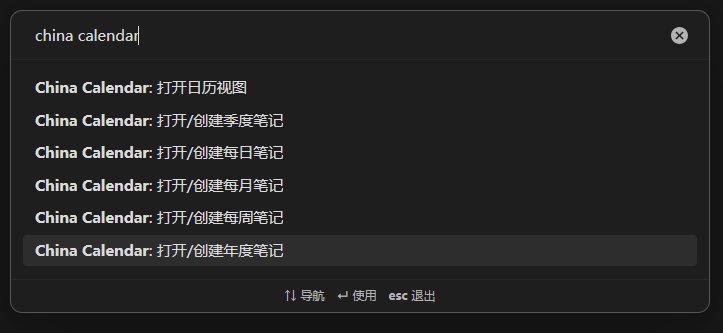
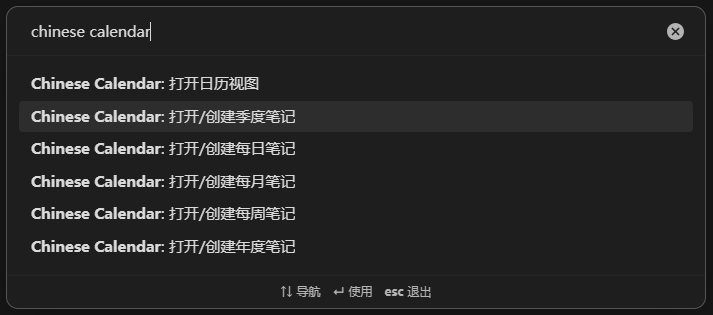
refactor: 将插件重新命名为 “Chinese Calendar”

diff --git a/src/main.ts b/src/main.ts
@@ -12,7 +12,7 @@ import {NoteType} from "./base/enum";
 
 
 // 插件对象
-export default class ChinaCalendarPlugin extends Plugin {
+export default class ChineseCalendarPlugin extends Plugin {
 
     public readonly database: Database;
     public readonly noteController: NoteController;
@@ -47,7 +47,7 @@ export default class ChinaCalendarPlugin extends Plugin {
             id: "active-calendar-view",
             name: "打开日历视图",
             callback: () => {
-                void ChinaCalendarPlugin.activateCalendarView(this);
+                void ChineseCalendarPlugin.activateCalendarView(this);
             }
         });
         this.addCommand({
@@ -97,11 +97,11 @@ export default class ChinaCalendarPlugin extends Plugin {
 
         // 添加左侧边栏图标
         this.addRibbonIcon("calendar-check", "打开日历", () => {
-            void ChinaCalendarPlugin.activateCalendarView(this);
+            void ChineseCalendarPlugin.activateCalendarView(this);
         });
 
         if (this.app.workspace.layoutReady) {
-            await ChinaCalendarPlugin.activateCalendarView(this);
+            await ChineseCalendarPlugin.activateCalendarView(this);
         }
     }
 

diff --git a/src/core/CalendarViewController.ts b/src/core/CalendarViewController.ts
@@ -1,4 +1,4 @@
-import ChinaCalendarPlugin from "../main";
+import ChineseCalendarPlugin from "../main";
 import {CalendarView, VIEW_TYPE_CALENDAR} from "../view/CalendarView";
 
 
@@ -8,11 +8,11 @@ import {CalendarView, VIEW_TYPE_CALENDAR} from "../view/CalendarView";
  */
 export class CalendarViewController {
 
-    public readonly plugin: ChinaCalendarPlugin;
+    public readonly plugin: ChineseCalendarPlugin;
     private requestCounter: number;                             // 请求刷新的次数
     private lastRequestTime: number;                            // 上次请求时间
 
-    constructor(plugin: ChinaCalendarPlugin) {
+    constructor(plugin: ChineseCalendarPlugin) {
         this.plugin = plugin;
         this.requestCounter = 0;
         this.lastRequestTime = 0;

diff --git a/src/core/Database.ts b/src/core/Database.ts
@@ -1,4 +1,4 @@
-import ChinaCalendarPlugin from "../main";
+import ChineseCalendarPlugin from "../main";
 import PluginSetting from "../entity/PluginSetting";
 
 
@@ -7,10 +7,10 @@ import PluginSetting from "../entity/PluginSetting";
  */
 export default class Database {
 
-    public readonly plugin: ChinaCalendarPlugin;
+    public readonly plugin: ChineseCalendarPlugin;
     public setting: PluginSetting;
 
-    constructor(plugin: ChinaCalendarPlugin) {
+    constructor(plugin: ChineseCalendarPlugin) {
         this.plugin = plugin;
         this.setting = new PluginSetting();
     }

diff --git a/src/core/NoteController.ts b/src/core/NoteController.ts
@@ -5,7 +5,7 @@ import SelectedItem from "../entity/SelectedItem";
 import Path from "../util/Path";
 import PathUtil from "../util/PathUtil";
 import ConfirmCreatingNoteModal from "../view/modal/ConfirmCreatingNoteModal";
-import ChinaCalendarPlugin from "../main";
+import ChineseCalendarPlugin from "../main";
 
 
 /**
@@ -13,10 +13,10 @@ import ChinaCalendarPlugin from "../main";
  */
 export default class NoteController {
 
-    public readonly plugin: ChinaCalendarPlugin;
+    public readonly plugin: ChineseCalendarPlugin;
     private noteType: NoteType;
 
-    constructor(plugin: ChinaCalendarPlugin) {
+    constructor(plugin: ChineseCalendarPlugin) {
         this.plugin = plugin;
         this.noteType = NoteType.DAILY;
     }

diff --git a/src/core/NoteStatisticController.ts b/src/core/NoteStatisticController.ts
@@ -1,6 +1,6 @@
 import {TAbstractFile, TFile} from "obsidian";
 import {DateTime} from "luxon";
-import ChinaCalendarPlugin from "../main";
+import ChineseCalendarPlugin from "../main";
 import {NoteType, TodoAnnotationMode} from "../base/enum";
 import NoteStatistic from "../entity/NoteStatistic";
 
@@ -9,10 +9,10 @@ export default class NoteStatisticController {
 
     private static PATTERN_FOR_COUNTING_WORDS = /(?:[0-9]+(?:(?:,|\.)[0-9]+)*|[-'’A-Za-z\u00AA\u00B5\u00BA\u00C0-\u00D6\u00D8-\u00F6\u00F8-\u02C1\u02C6-\u02D1\u02E0-\u02E4\u02EC\u02EE\u0370-\u0374\u0376\u0377\u037A-\u037D\u037F\u0386\u0388-\u038A\u038C\u038E-\u03A1\u03A3-\u03F5\u03F7-\u0481\u048A-\u052F\u0531-\u0556\u0559\u0561-\u0587\u05D0-\u05EA\u05F0-\u05F2\u0620-\u064A\u066E\u066F\u0671-\u06D3\u06D5\u06E5\u06E6\u06EE\u06EF\u06FA-\u06FC\u06FF\u0710\u0712-\u072F\u074D-\u07A5\u07B1\u07CA-\u07EA\u07F4\u07F5\u07FA\u0800-\u0815\u081A\u0824\u0828\u0840-\u0858\u08A0-\u08B4\u0904-\u0939\u093D\u0950\u0958-\u0961\u0971-\u0980\u0985-\u098C\u098F\u0990\u0993-\u09A8\u09AA-\u09B0\u09B2\u09B6-\u09B9\u09BD\u09CE\u09DC\u09DD\u09DF-\u09E1\u09F0\u09F1\u0A05-\u0A0A\u0A0F\u0A10\u0A13-\u0A28\u0A2A-\u0A30\u0A32\u0A33\u0A35\u0A36\u0A38\u0A39\u0A59-\u0A5C\u0A5E\u0A72-\u0A74\u0A85-\u0A8D\u0A8F-\u0A91\u0A93-\u0AA8\u0AAA-\u0AB0\u0AB2\u0AB3\u0AB5-\u0AB9\u0ABD\u0AD0\u0AE0\u0AE1\u0AF9\u0B05-\u0B0C\u0B0F\u0B10\u0B13-\u0B28\u0B2A-\u0B30\u0B32\u0B33\u0B35-\u0B39\u0B3D\u0B5C\u0B5D\u0B5F-\u0B61\u0B71\u0B83\u0B85-\u0B8A\u0B8E-\u0B90\u0B92-\u0B95\u0B99\u0B9A\u0B9C\u0B9E\u0B9F\u0BA3\u0BA4\u0BA8-\u0BAA\u0BAE-\u0BB9\u0BD0\u0C05-\u0C0C\u0C0E-\u0C10\u0C12-\u0C28\u0C2A-\u0C39\u0C3D\u0C58-\u0C5A\u0C60\u0C61\u0C85-\u0C8C\u0C8E-\u0C90\u0C92-\u0CA8\u0CAA-\u0CB3\u0CB5-\u0CB9\u0CBD\u0CDE\u0CE0\u0CE1\u0CF1\u0CF2\u0D05-\u0D0C\u0D0E-\u0D10\u0D12-\u0D3A\u0D3D\u0D4E\u0D5F-\u0D61\u0D7A-\u0D7F\u0D85-\u0D96\u0D9A-\u0DB1\u0DB3-\u0DBB\u0DBD\u0DC0-\u0DC6\u0E01-\u0E30\u0E32\u0E33\u0E40-\u0E46\u0E81\u0E82\u0E84\u0E87\u0E88\u0E8A\u0E8D\u0E94-\u0E97\u0E99-\u0E9F\u0EA1-\u0EA3\u0EA5\u0EA7\u0EAA\u0EAB\u0EAD-\u0EB0\u0EB2\u0EB3\u0EBD\u0EC0-\u0EC4\u0EC6\u0EDC-\u0EDF\u1000-\u102A\u103F\u1050-\u1055\u105A-\u105D\u1061\u1065\u1066\u106E-\u1070\u1075-\u1081\u108E\u10A0-\u10C5\u10C7\u10CD\u10D0-\u10FA\u10FC-\u1248\u124A-\u124D\u1250-\u1256\u1258\u125A-\u125D\u1260-\u1288\u128A-\u128D\u1290-\u12B0\u12B2-\u12B5\u12B8-\u12BE\u12C0\u12C2-\u12C5\u12C8-\u12D6\u12D8-\u1310\u1312-\u1315\u1318-\u135A\u1380-\u138F\u13A0-\u13F5\u13F8-\u13FD\u1401-\u166C\u166F-\u167F\u1681-\u169A\u16A0-\u16EA\u16F1-\u16F8\u1700-\u170C\u170E-\u1711\u1720-\u1731\u1740-\u1751\u1760-\u176C\u176E-\u1770\u1780-\u17B3\u17D7\u17DC\u1820-\u1877\u1880-\u18A8\u18AA\u18B0-\u18F5\u1900-\u191E\u1950-\u196D\u1970-\u1974\u1980-\u19AB\u19B0-\u19C9\u1A00-\u1A16\u1A20-\u1A54\u1AA7\u1B05-\u1B33\u1B45-\u1B4B\u1B83-\u1BA0\u1BAE\u1BAF\u1BBA-\u1BE5\u1C00-\u1C23\u1C4D-\u1C4F\u1C5A-\u1C7D\u1CE9-\u1CEC\u1CEE-\u1CF1\u1CF5\u1CF6\u1D00-\u1DBF\u1E00-\u1F15\u1F18-\u1F1D\u1F20-\u1F45\u1F48-\u1F4D\u1F50-\u1F57\u1F59\u1F5B\u1F5D\u1F5F-\u1F7D\u1F80-\u1FB4\u1FB6-\u1FBC\u1FBE\u1FC2-\u1FC4\u1FC6-\u1FCC\u1FD0-\u1FD3\u1FD6-\u1FDB\u1FE0-\u1FEC\u1FF2-\u1FF4\u1FF6-\u1FFC\u2071\u207F\u2090-\u209C\u2102\u2107\u210A-\u2113\u2115\u2119-\u211D\u2124\u2126\u2128\u212A-\u212D\u212F-\u2139\u213C-\u213F\u2145-\u2149\u214E\u2183\u2184\u2C00-\u2C2E\u2C30-\u2C5E\u2C60-\u2CE4\u2CEB-\u2CEE\u2CF2\u2CF3\u2D00-\u2D25\u2D27\u2D2D\u2D30-\u2D67\u2D6F\u2D80-\u2D96\u2DA0-\u2DA6\u2DA8-\u2DAE\u2DB0-\u2DB6\u2DB8-\u2DBE\u2DC0-\u2DC6\u2DC8-\u2DCE\u2DD0-\u2DD6\u2DD8-\u2DDE\u2E2F\u3005\u3006\u3031-\u3035\u303B\u303C\u3105-\u312D\u3131-\u318E\u31A0-\u31BA\u31F0-\u31FF\u3400-\u4DB5\uA000-\uA48C\uA4D0-\uA4FD\uA500-\uA60C\uA610-\uA61F\uA62A\uA62B\uA640-\uA66E\uA67F-\uA69D\uA6A0-\uA6E5\uA717-\uA71F\uA722-\uA788\uA78B-\uA7AD\uA7B0-\uA7B7\uA7F7-\uA801\uA803-\uA805\uA807-\uA80A\uA80C-\uA822\uA840-\uA873\uA882-\uA8B3\uA8F2-\uA8F7\uA8FB\uA8FD\uA90A-\uA925\uA930-\uA946\uA984-\uA9B2\uA9CF\uA9E0-\uA9E4\uA9E6-\uA9EF\uA9FA-\uA9FE\uAA00-\uAA28\uAA40-\uAA42\uAA44-\uAA4B\uAA60-\uAA76\uAA7A\uAA7E-\uAAAF\uAAB1\uAAB5\uAAB6\uAAB9-\uAABD\uAAC0\uAAC2\uAADB-\uAADD\uAAE0-\uAAEA\uAAF2-\uAAF4\uAB01-\uAB06\uAB09-\uAB0E\uAB11-\uAB16\uAB20-\uAB26\uAB28-\uAB2E\uAB30-\uAB5A\uAB5C-\uAB65\uAB70-\uABE2\uD7CB-\uD7FB\uF900-\uFA6D\uFA70-\uFAD9\uFB00-\uFB06\uFB13-\uFB17\uFB1D\uFB1F-\uFB28\uFB2A-\uFB36\uFB38-\uFB3C\uFB3E\uFB40\uFB41\uFB43\uFB44\uFB46-\uFBB1\uFBD3-\uFD3D\uFD50-\uFD8F\uFD92-\uFDC7\uFDF0-\uFDFB\uFE70-\uFE74\uFE76-\uFEFC\uFF21-\uFF3A\uFF41-\uFF5A\uFF66-\uFFBE\uFFC2-\uFFC7\uFFCA-\uFFCF\uFFD2-\uFFD7\uFFDA-\uFFDC஀-௿가-힣ꥠ-ꥼힰ-ퟆ])+|[\u0F00\u0F40-\u0F47\u0F49-\u0F6C\u0F88-\u0F8C\u3041-\u3096\u309D-\u309F\u30A1-\u30FA\u30FC-\u30FF\u4E00-\u9FD5\uAC00-\uD7A3\uA960-\uA97C\uD7B0-\uD7C6]/g;
 
-    public readonly plugin: ChinaCalendarPlugin;
+    public readonly plugin: ChineseCalendarPlugin;
     private noteStatisticRegistry: Map<string, NoteStatistic>;
 
-    constructor(plugin: ChinaCalendarPlugin) {
+    constructor(plugin: ChineseCalendarPlugin) {
         this.plugin = plugin;
         this.noteStatisticRegistry = new Map();
 

diff --git a/src/core/TemplateController.ts b/src/core/TemplateController.ts
@@ -2,7 +2,7 @@ import {TAbstractFile} from 'obsidian';
 import {NoteType, TemplatePlugin} from "../base/enum";
 import Path from "../util/Path";
 import PathUtil from "../util/PathUtil";
-import ChinaCalendarPlugin from "../main";
+import ChineseCalendarPlugin from "../main";
 import TemplateUtil from "../util/TemplateUtil";
 import ObsidianTemplateUtil from "../util/ObsidianTemplateUtil";
 import TemplaterUtil from "../util/TemplaterUtil";
@@ -13,10 +13,10 @@ import TemplaterUtil from "../util/TemplaterUtil";
  */
 export default class TemplateController {
 
-    public readonly plugin: ChinaCalendarPlugin;
+    public readonly plugin: ChineseCalendarPlugin;
     public templateUtil: TemplateUtil;
 
-    constructor(plugin: ChinaCalendarPlugin) {
+    constructor(plugin: ChineseCalendarPlugin) {
         this.plugin = plugin;
         this.templateUtil = new TemplateUtil(this.plugin);
     }

diff --git a/src/core/ViewController.ts b/src/core/ViewController.ts
@@ -1,4 +1,4 @@
-import ChinaCalendarPlugin from "../main";
+import ChineseCalendarPlugin from "../main";
 import {FontSizeChangeMode, QuarterNameMode} from "../base/enum";
 
 
@@ -7,10 +7,10 @@ import {FontSizeChangeMode, QuarterNameMode} from "../base/enum";
  */
 export default class ViewController {
 
-    public readonly plugin: ChinaCalendarPlugin;
+    public readonly plugin: ChineseCalendarPlugin;
     private quarterNameMap: Map<number, string>;
 
-    constructor(plugin: ChinaCalendarPlugin) {
+    constructor(plugin: ChineseCalendarPlugin) {
         this.plugin = plugin;
         this.quarterNameMap = new Map;
         this.updateQuarterNameMap();

diff --git a/src/util/TemplateUtil.ts b/src/util/TemplateUtil.ts
@@ -1,5 +1,5 @@
 import {TAbstractFile} from 'obsidian';
-import ChinaCalendarPlugin from "../main";
+import ChineseCalendarPlugin from "../main";
 import Path from "./Path";
 
 
@@ -8,9 +8,9 @@ import Path from "./Path";
  */
 export default class TemplateUtil {
 
-    public readonly plugin: ChinaCalendarPlugin;
+    public readonly plugin: ChineseCalendarPlugin;
 
-    constructor(plugin: ChinaCalendarPlugin) {
+    constructor(plugin: ChineseCalendarPlugin) {
         this.plugin = plugin;
     }
 

diff --git a/src/view/CalendarView.tsx b/src/view/CalendarView.tsx
@@ -4,7 +4,7 @@ import {Provider} from "react-redux";
 import {ItemView, WorkspaceLeaf} from "obsidian";
 import {store} from "./redux/store";
 import CalendarViewImpl from "./calendar_view/CalendarViewImpl";
-import ChinaCalendarPlugin from "../main";
+import ChineseCalendarPlugin from "../main";
 import {PluginContext} from "./context";
 
 
@@ -13,11 +13,11 @@ export const VIEW_TYPE_CALENDAR = "calendar-view";
 
 export class CalendarView extends ItemView {
 
-    private readonly plugin: ChinaCalendarPlugin;
+    private readonly plugin: ChineseCalendarPlugin;
     // private readonly mainController: MainController;
     private root: Root | null = null;
 
-    constructor(leaf: WorkspaceLeaf, plugin: ChinaCalendarPlugin) {
+    constructor(leaf: WorkspaceLeaf, plugin: ChineseCalendarPlugin) {
         // constructor(leaf: WorkspaceLeaf, mainController: MainController) {
         super(leaf);
         this.plugin = plugin;

diff --git a/src/view/modal/ConfirmCreatingNoteModal.tsx b/src/view/modal/ConfirmCreatingNoteModal.tsx
@@ -2,7 +2,7 @@ import {Modal, Setting} from "obsidian";
 import React, {ChangeEvent} from "react";
 import {createRoot, Root} from "react-dom/client";
 import Path from "../../util/Path";
-import ChinaCalendarPlugin from "../../main";
+import ChineseCalendarPlugin from "../../main";
 
 
 function ControlElement({modal}: { modal: ConfirmCreatingNoteModal }) {
@@ -27,13 +27,13 @@ function ControlElement({modal}: { modal: ConfirmCreatingNoteModal }) {
 
 export default class ConfirmCreatingNoteModal extends Modal {
 
-    public plugin: ChinaCalendarPlugin;
+    public plugin: ChineseCalendarPlugin;
     private filename: Path;                     // 要创建的文件名，可以包含路径
     private shouldCreateNote: boolean;          // 弹窗关闭时，是否应该创建笔记
 
     private controlElementRoot: Root | null;
 
-    constructor(filename: Path, plugin: ChinaCalendarPlugin) {
+    constructor(filename: Path, plugin: ChineseCalendarPlugin) {
         super(plugin.app);
         this.plugin = plugin;
         this.filename = filename;

diff --git a/src/view/setting/MainSettingTab.tsx b/src/view/setting/MainSettingTab.tsx
@@ -1,7 +1,7 @@
 import {PluginSettingTab, Setting} from "obsidian";
 import {createRoot, Root} from "react-dom/client";
 import {FontSizeChangeMode, NoteType, TemplatePlugin} from "../../base/enum";
-import ChinaCalendarPlugin from "../../main";
+import ChineseCalendarPlugin from "../../main";
 import ImmutableFontSizeSlider from "./ImmutableFontSizeSlider";
 import FontSizeChangeModeSelect from "./FontSizeChangeModeSelect";
 import QuarterNameModeSelect from "./QuarterNameModeSelect";
@@ -15,7 +15,7 @@ import WordsPerDotInput from "./WordsPerDotInput";
 
 export default class MainSettingTab extends PluginSettingTab {
 
-    private plugin: ChinaCalendarPlugin;
+    private plugin: ChineseCalendarPlugin;
     icon: string = "calendar-check";
     private fontSizeChangeModeSelectRoot: Root | null;
     private immutableFontSizeSliderRoot: Root | null;
@@ -35,7 +35,7 @@ export default class MainSettingTab extends PluginSettingTab {
     private yearlyNotePatternRoot: Root | null;
     private yearlyNoteTemplateRoot: Root | null;
 
-    constructor(plugin: ChinaCalendarPlugin) {
+    constructor(plugin: ChineseCalendarPlugin) {
         super(plugin.app, plugin);
         this.plugin = plugin;
         this.fontSizeChangeModeSelectRoot = null;

diff --git a/src/view/setting/NotePattern.tsx b/src/view/setting/NotePattern.tsx
@@ -1,10 +1,10 @@
 import React, {ChangeEvent, useState} from "react";
 import {DateTime} from "luxon";
-import ChinaCalendarPlugin from "../../main";
+import ChineseCalendarPlugin from "../../main";
 import {NoteType} from "../../base/enum";
 
 
-export default function NotePattern({plugin, noteType}: { plugin: ChinaCalendarPlugin, noteType: NoteType }) {
+export default function NotePattern({plugin, noteType}: { plugin: ChineseCalendarPlugin, noteType: NoteType }) {
 
     const [notePattern, setNotePattern] = useState(plugin.noteController.getNotePattern(noteType));
 
@@ -25,7 +25,7 @@ export default function NotePattern({plugin, noteType}: { plugin: ChinaCalendarP
                     href="https://moment.github.io/luxon/#/formatting?id=table-of-tokens">luxon语法</a>&nbsp;指定笔记文件的生成路径。
                 </div>
                 {notePattern.length === 0
-                    ? <div className="d-setting-error">China Calendar 将无法为您创建笔记文件。</div>
+                    ? <div className="d-setting-error">Chinese Calendar 将无法为您创建笔记文件。</div>
                     : <div>规则应用后的文件路径为（基于当前日期）：<b className="d-setting-accent">{text}</b></div>
                 }
                 <div><b>注意：</b>使用单引号可以进行转义，例如：yyyy 'year' MM 'month' dd 'day'